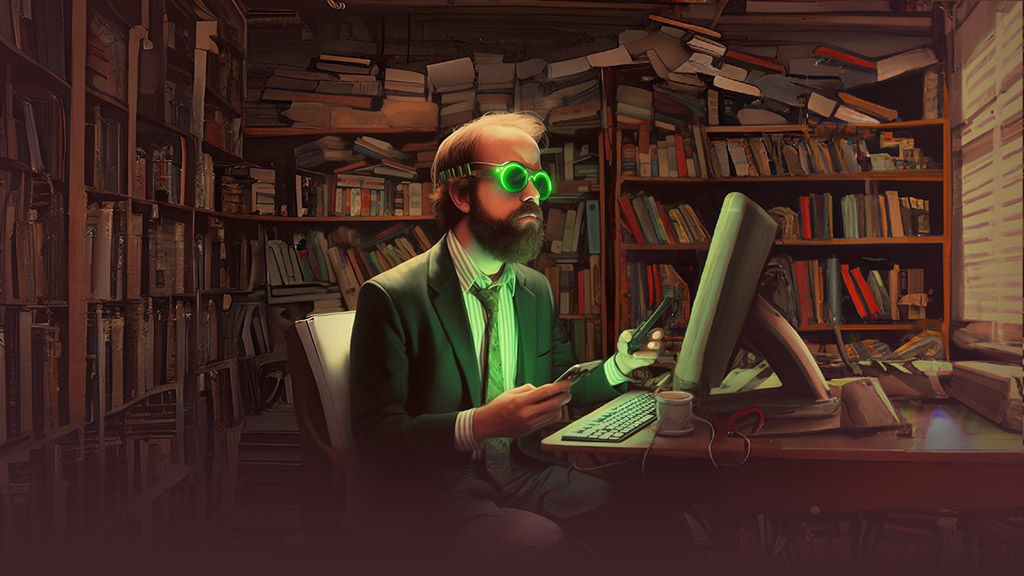
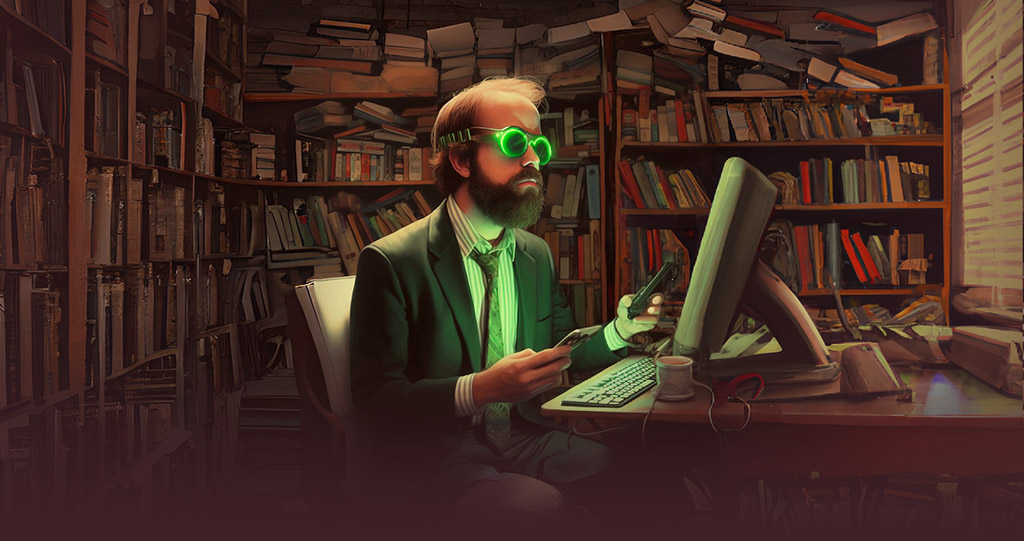
optimize header images, fix broken space report page

diff --git a/src/components/GeneralLayout.tsx b/src/components/GeneralLayout.tsx
@@ -14,11 +14,11 @@ const GeneralLayout = ({
     <html lang="en">
       <body className={
         `${inter.className}
-        bg-[url('/images/header-sec-background-640.png')]
-        sm:bg-[url('/images/header-sec-background-768.png')]
-        md:bg-[url('/images/header-sec-background-1024.png')]
-        lg:bg-[url('/images/header-sec-background-1280.png')]
-        xl:bg-[url('/images/header-sec-background-1536.png')]
+        bg-[url('/images/header-sec-background-640.jpg')]
+        sm:bg-[url('/images/header-sec-background-768.jpg')]
+        md:bg-[url('/images/header-sec-background-1024.jpg')]
+        lg:bg-[url('/images/header-sec-background-1280.jpg')]
+        xl:bg-[url('/images/header-sec-background-1536.jpg')]
         bg-no-repeat
         bg-top h-full`}>
         <GeneralHeader />

diff --git a/src/app/(home)/layout.tsx b/src/app/(home)/layout.tsx
@@ -28,11 +28,10 @@ export default function RootLayout({
     <html lang="en">
       <body className={
         `${inter.className}
-        bg-[url('/images/header-background-640.jpg')]
-        sm:bg-[url('/images/header-background-768.png')]
-        md:bg-[url('/images/header-background-1024.png')]
-        lg:bg-[url('/images/header-background-1280.png')]
-        xl:bg-[url('/images/header-background-1536.png')]
+        bg-[url('/images/header-background-768.jpg')]
+        md:bg-[url('/images/header-background-1024.jpg')]
+        lg:bg-[url('/images/header-background-1280.jpg')]
+        xl:bg-[url('/images/header-background-1536.jpg')]
         bg-no-repeat
         bg-top h-full`}>
         <HomeHeader />

diff --git a/posts/2020/joined-bombbomb-team.md b/posts/2020/joined-bombbomb-team.md
@@ -10,7 +10,7 @@ tags:
 ---
 ![a fancy UI](/images/before-bombbomb-after.jpg)
 
-I started a new position with an amazing human-centered communications company called BombBomb! The transition felt [like this](https://twitter.com/owntheweb/status/1266386136126984193)!
+I started a new position with an amazing human-centered communications company called BombBomb! The transition felt (and looked) [like this](https://twitter.com/owntheweb/status/1266386136126984193)!
 
 ## Details:
 

diff --git a/posts/2016/the-space-report-online.md b/posts/2016/the-space-report-online.md
@@ -1,5 +1,5 @@
 ---
-title: 'The Space Report: The Authoritative Guide to Space Activity'
+title: 'The Space Report Online'
 type: Project
 date: '2016-08-01'
 previewImage: /images/the-space-report.jpg
